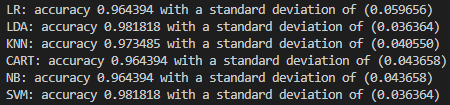
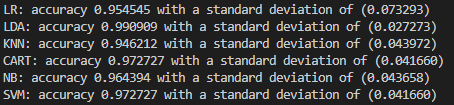
analysis.py code further update

diff --git a/README.md b/README.md
@@ -645,7 +645,7 @@ An additional step that can be done is to spot check other classification algori
 I will test 6 different popular classification algorithms, the selected algorithms are a good mixture of simple linear (LR Linear Regression and LDA Linear Discrimination Analysis), nonlinear (KNN K Nearest Neighhours, CART Decision Tree Classifier, NB GaussianNB and SVM Support Vector Machine) algorithms.  
 
     models = []
-    models.append(('LR', LogisticRegression(solver='liblinear', multi_class='ovr')))
+    models.append(('LR', LogisticRegression(solver='liblinear')))
     models.append(('LDA', LinearDiscriminantAnalysis()))
     models.append(('KNN', KNeighborsClassifier()))
     models.append(('CART', DecisionTreeClassifier()))
@@ -688,7 +688,7 @@ The box and whisker plots are squashed at the top of the range, with many evalua
 #### Step 8 - Final model selection <a name="finalmodelselection"></a>    
   
 
-The results in the previous section suggest that the LDA was the joint most accurate model along with SVM. I will use the LDA model as the final model.   
+The results in the previous section suggest that the LDA was the most accurate model. I will use the LDA model as the final model.   
 
 Now I want to get an idea of the accuracy of the model on the testing set. This will give an independent final check on the accuracy of the best model.  
 
@@ -708,7 +708,7 @@ I can evaluate the predictions of the testing data (LDApredictions) by comparing
 
 ![](images/5.0.1.confusionmatrix.PNG)   
 
-I can see that the accuracy is 1.0 or 100% on the hold out dataset. The confusion matrix provides an indication of the errors made.
+I can see that the accuracy is 0.947 or 94.7% on the testing dataset. The confusion matrix provides an indication of the errors made, any numbers outside of the diagional row are the errors, in this case it was 2. 
 
   
 ## Project Conclusion <a name="projectconclusion"></a>       
